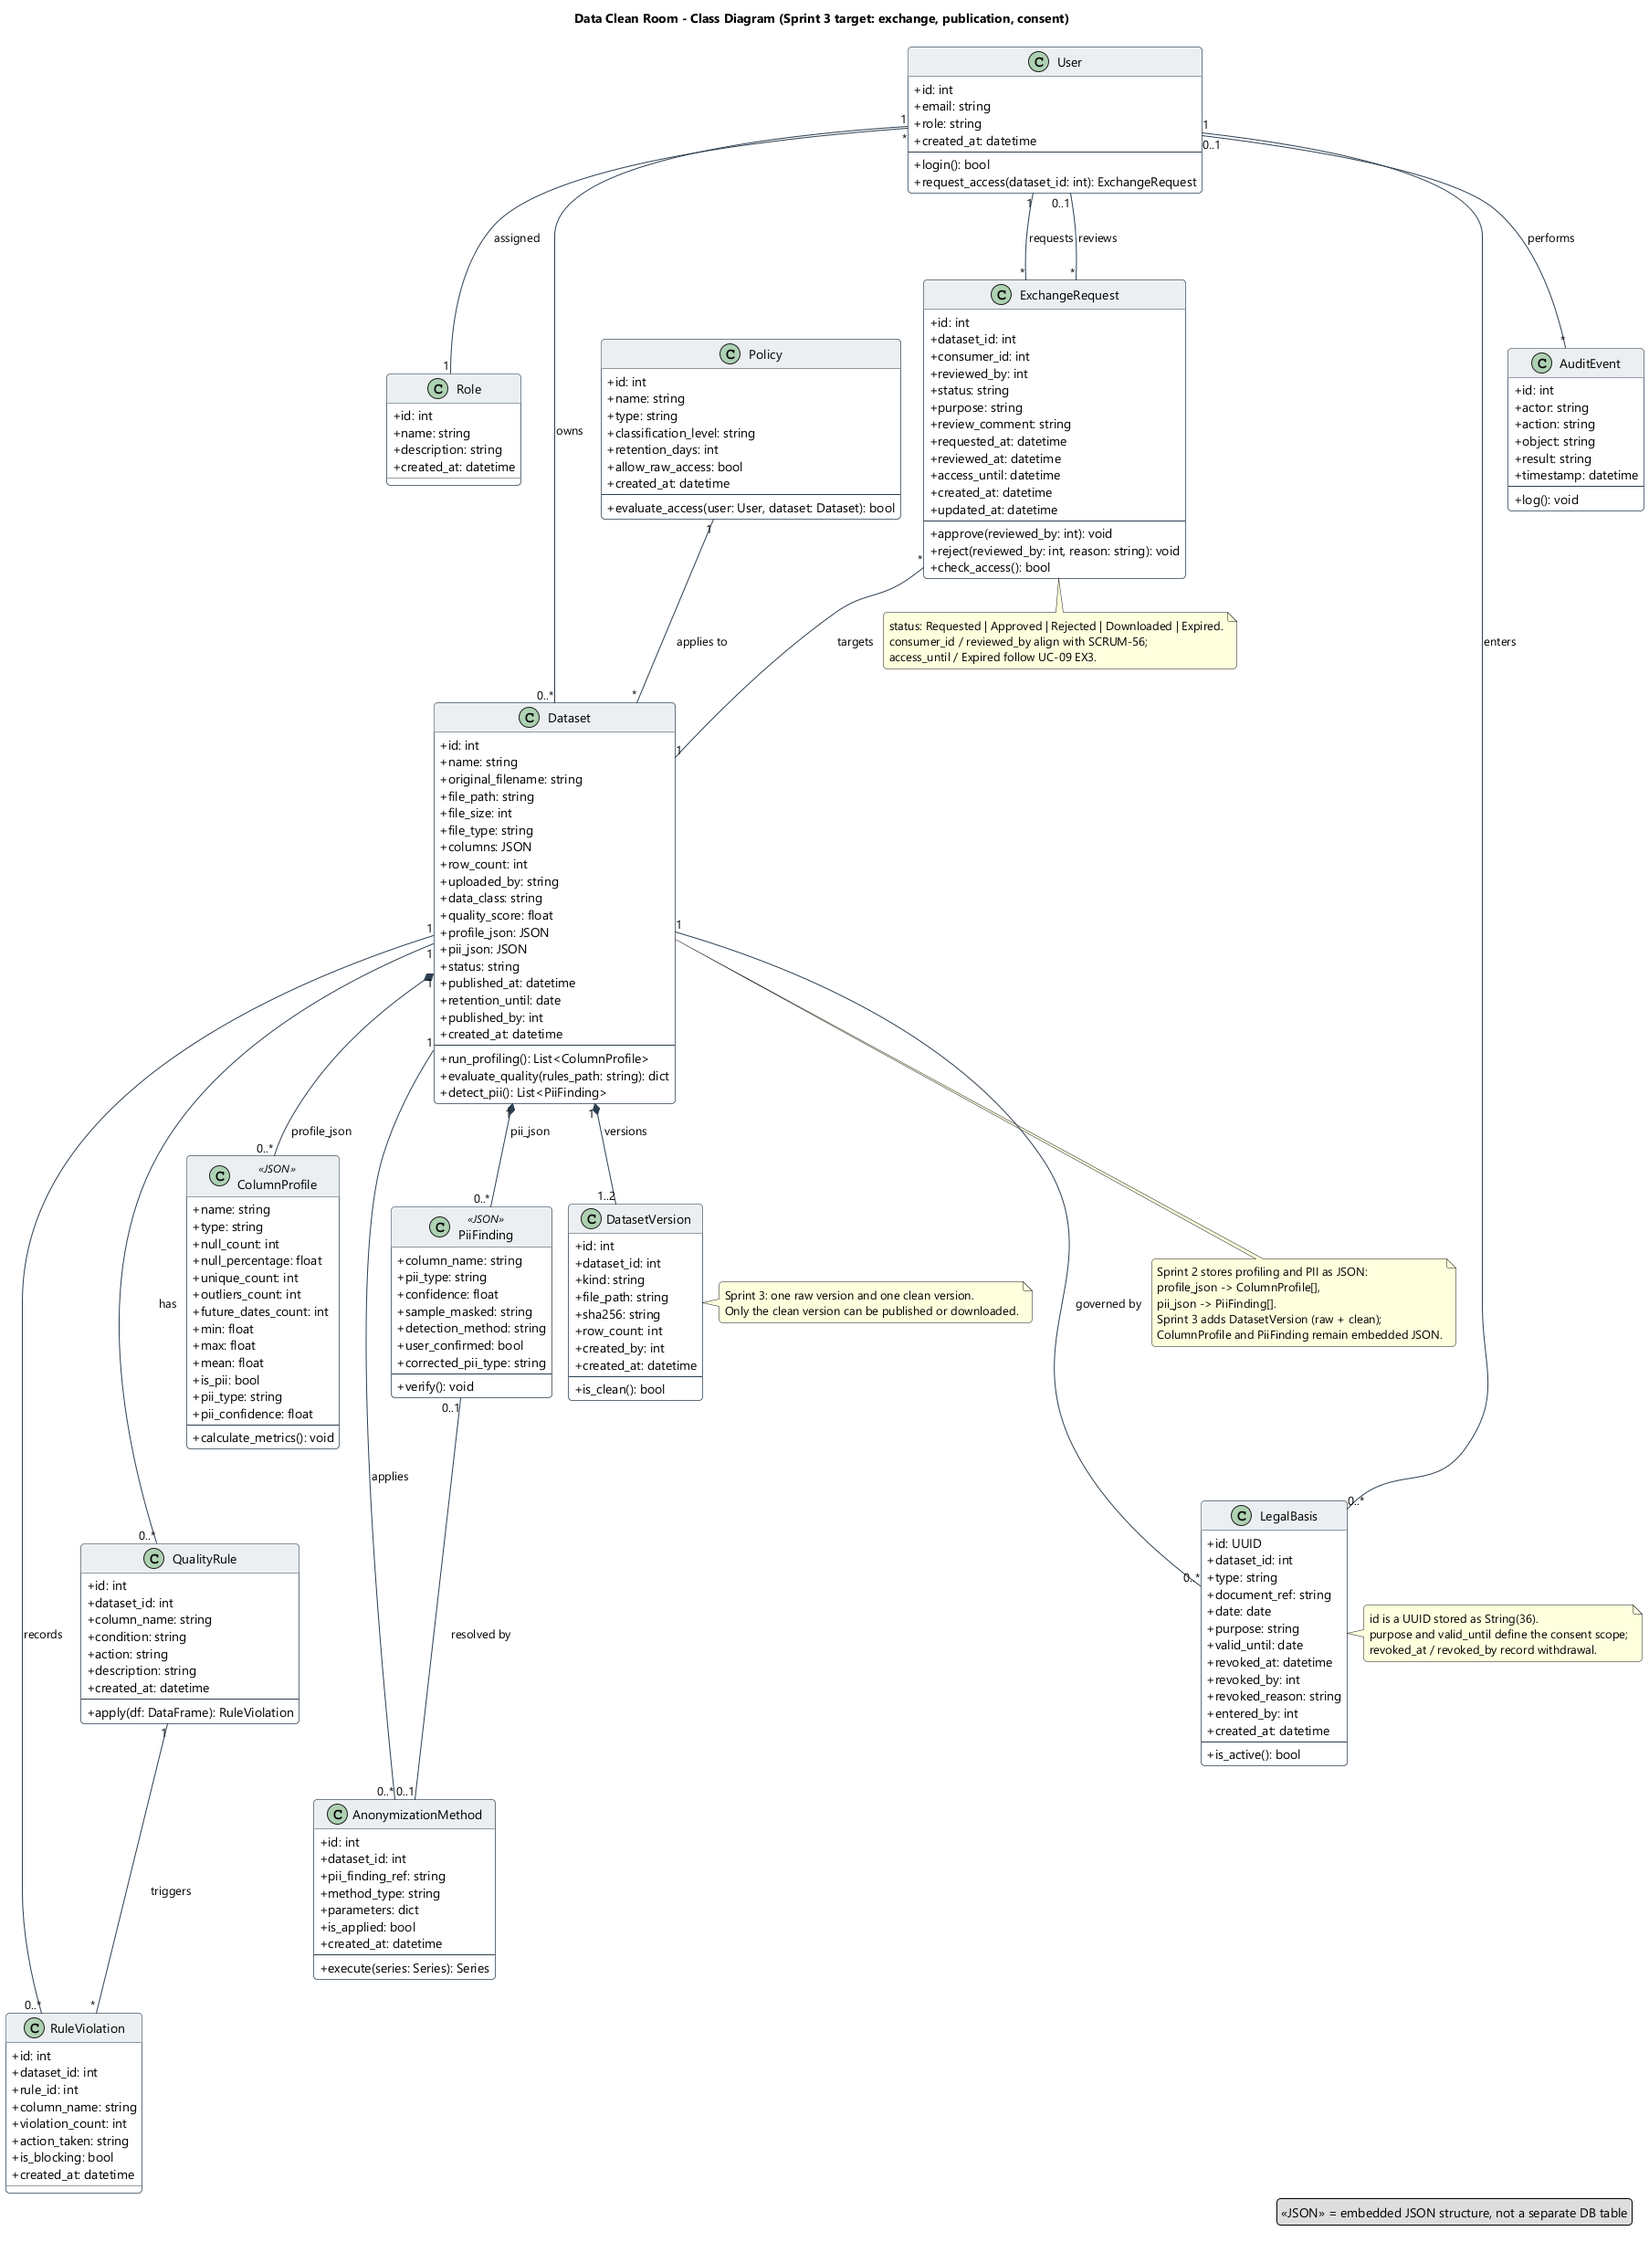
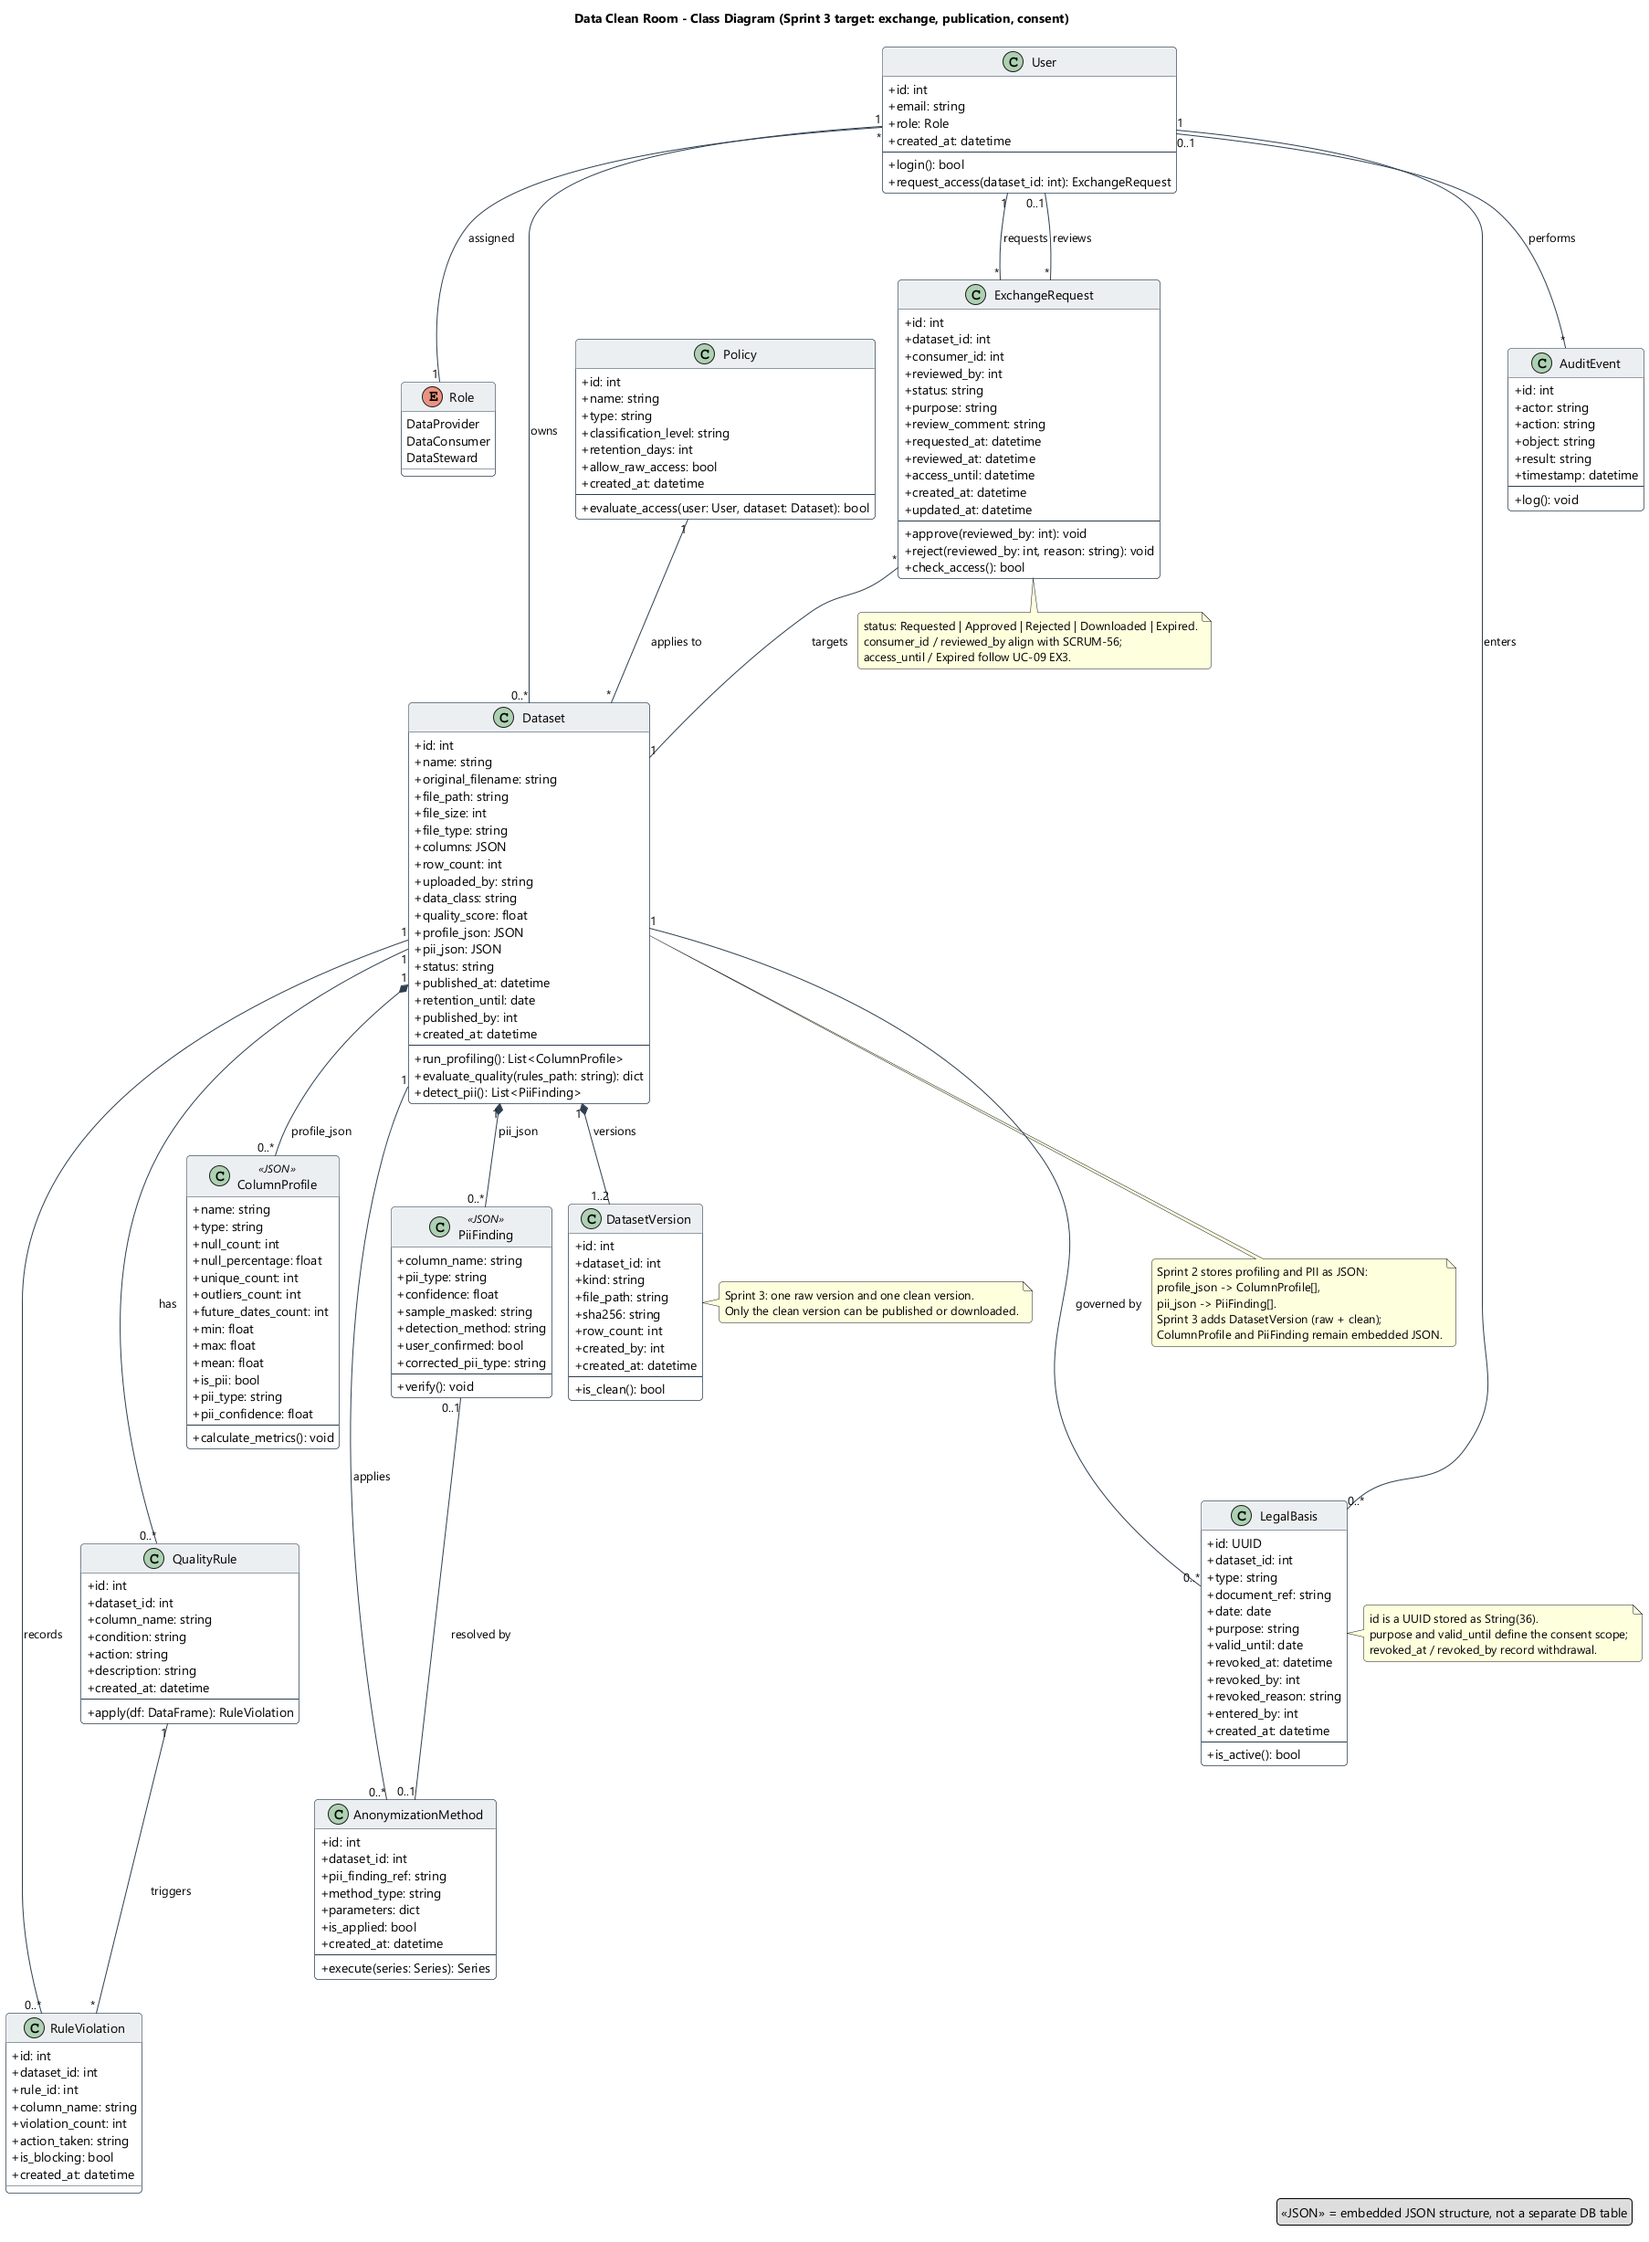
docs(SCRUM-59): model Role as enum and clarify legal basis scope
Role is a three-value enumeration over users.role, not a separate table; User.role now references it. Document that publication checks any active legal basis while purpose matching happens on the Consumer request.

diff --git a/docs/governance/data-governance-requirements.md b/docs/governance/data-governance-requirements.md
@@ -107,7 +107,7 @@
 Набір можна опублікувати лише за виконання всіх чотирьох умов:
 
 1. Профілювання виконано, правила якості застосовано, порушення оброблено відповідно до дії правила (`reject`, `flag` або `block`).
-2. Для кожної PII-колонки застосовано метод анонімізації; якщо серед методів є HMAC, для набору зафіксовано чинну правову підставу.
+2. Для кожної PII-колонки застосовано метод анонімізації; якщо серед методів є HMAC, для набору зафіксовано чинну правову підставу. На публікації перевіряється будь-яка чинна підстава без прив'язки до purpose; відповідність мети перевіряється на запиті Consumer (UC-09).
 3. Задано термін зберігання (retention).
 4. Подію `PUBLISH` записано в журнал аудиту.
 
